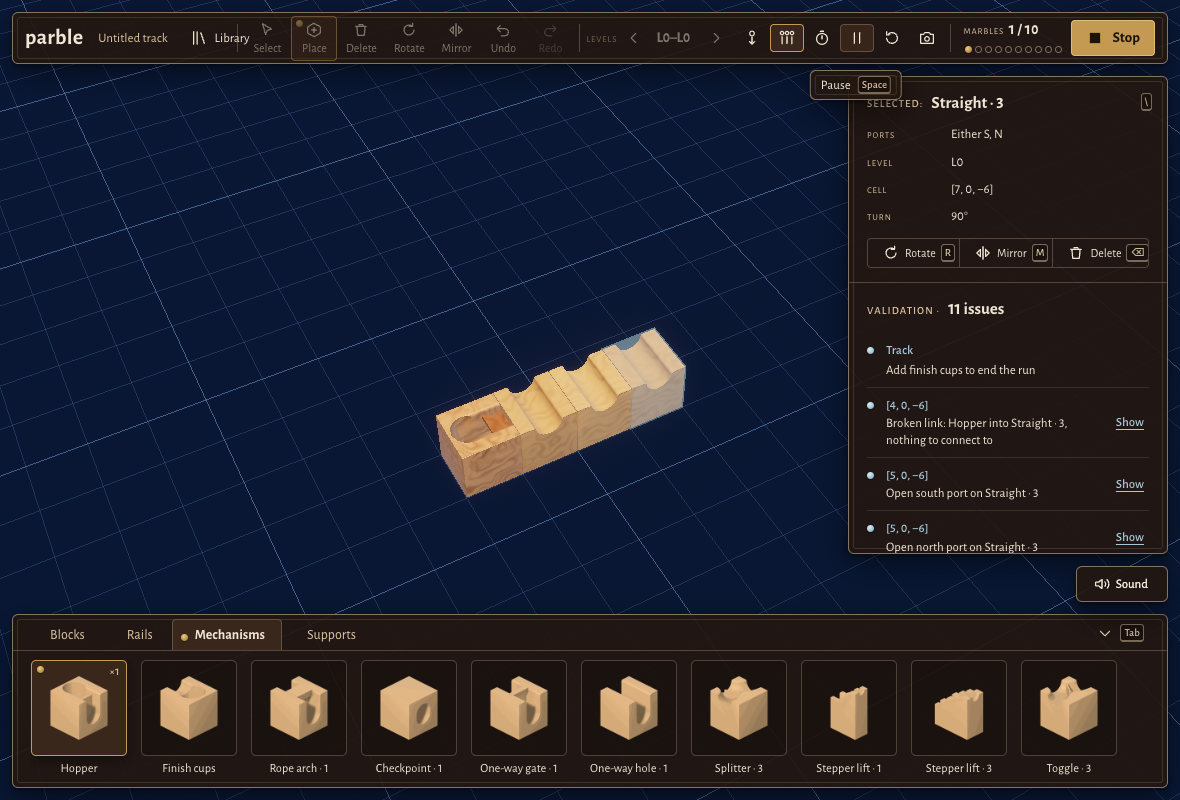
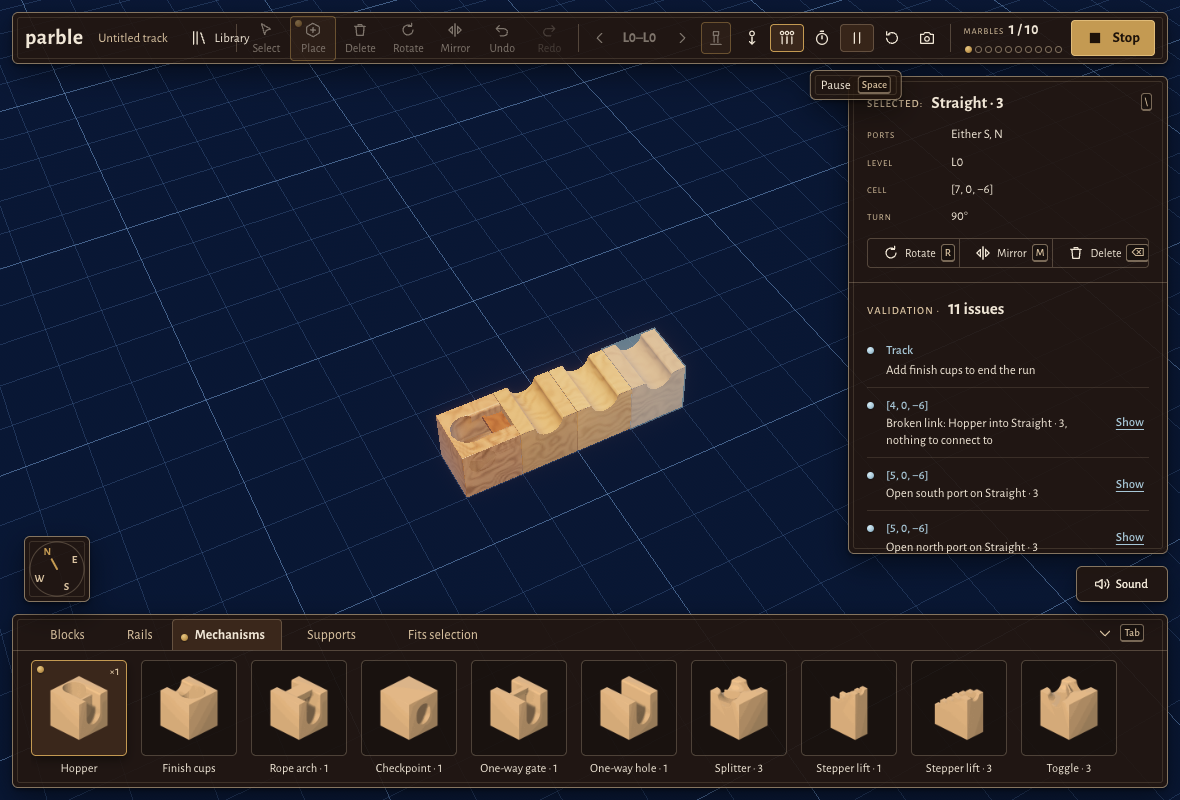
Editor strip below 1280 px: the Levels group drops its text label so the Columns button fits without the strip overflowing at 1180 px; design frames regenerated by the editor-ui e2e (compass, Columns button, Fits selection tab)

diff --git a/web/ui/src/editor/style.ts b/web/ui/src/editor/style.ts
@@ -231,6 +231,8 @@ body.parble-editor #parble-hud,body.parble-editor #parble-controls{display:none}
   #pe .hint{display:none}
   #pe .build kbd,#pe .run kbd{display:none}
   #pe .track{max-width:110px}
+  #pe .sl>.sc{display:none}
+  #pe .sl .cl{margin-left:2px}
 }
 @media (prefers-reduced-motion:reduce){
   #pe .travel,#pe .inlay,#pe .hair,#pe .build,body.parble-editor #parble-mixer{transition:none}
